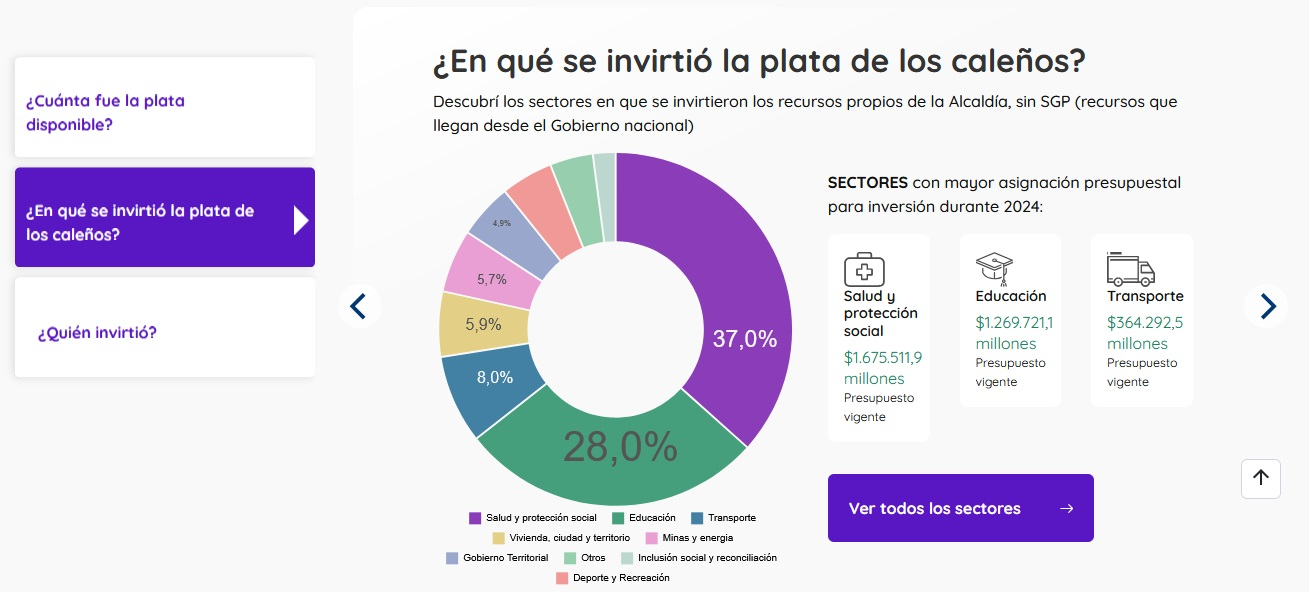
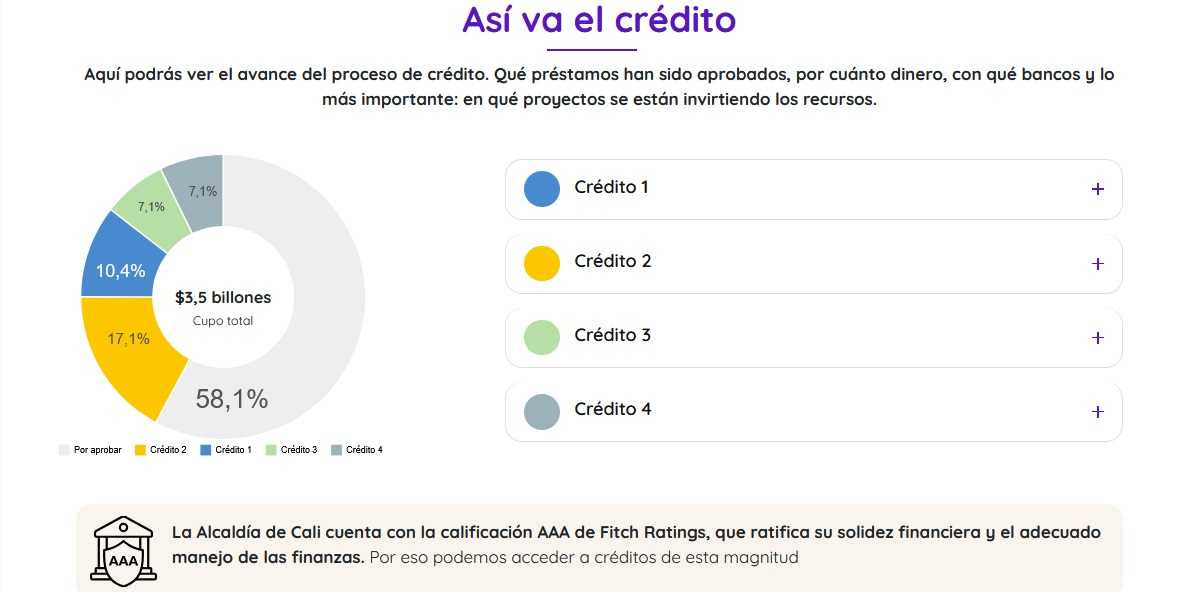
Actualización redme y código fuente
Actualización redme y código fuente

diff --git a/README.md b/README.md
@@ -60,9 +60,13 @@ También cualquier versión puede tener la sección de banner y anuncios, la cua
 
 ![carrusel](/MapaInversiones.Web/media/carrusel.jpg "carrusel")
 
+Dentro de la evolución de esta rama/versión se han ido haciendo ajustes, en la siguiente imagen se ve como se reemplazo el carrusel de banner anterior por uno con una sola imagen que lleva a una nueva seccion en donde se detalla todo lo referente a como se esta invirtiendo el dinero.
+
+![carrusel_nuevo](/MapaInversiones.Web/media/carrusel2.jpg "carrusel_nuevo")
+
 Uno de los elementos con los que el usuario puede interactuar, son las fichas resumen. 
 Las primeras que se ven en esta version muestran algunas preguntas con su respuesta de manera grafica, relacionadas con el dinero que estaba disponible, en que se invirtio y quien lo invirtio.
-En esta fichs se pueden incluir graficas con librerias como d3.js que permiten mostrar de manera interactiva la información. 
+En esta fichas se pueden incluir graficas con librerias como d3.js que permiten mostrar de manera interactiva la información. 
 
 ![en que se invirtio](/MapaInversiones.Web/media/fichapresenqueseinvirtio.jpg "en que se invirtio?")
 
@@ -89,6 +93,10 @@ La principal sección y una de las primeras características que se desarrollaro
 Una vez se ingrese al enlace, como se ve en la siguiente imagen, Mapa de Inversión presenta en la parte izquierda un filtro por diferentes características, estas sirven para ir reduciendo la cantidad de elementos mostrados en el mismo.
 
 ![mapa de inversión](/MapaInversiones.Web/media/mapa.jpg "mapa de inversión")
+
+Despues en la parte inferior, se encuentra un listado que va cambiando de acuerdo a los elementos que se muestren en el mapa y el filtro del mismo, este listado presenta el titulo del proyecto, el estao, el valor, y su id.
+
+![mapa de inversión proyectos](/MapaInversiones.Web/media/mapa2.jpg "mapa de inversión proyectos")
 
 Con la inclusion del WCM tambien se pueden crear secciones como la de noticias, las cuales se presenta como un listado y configuran desde el administrador de contenido, en estas secciones pueden ver las noticias más recientes, ver una imagen, el titulo y un pequeño resumen o subtitulo, según la version de MapaInversiones puede tener tambien la fecha publicación, usar el título de noticias para dirigirse a la sección completa de noticias, o usar un botón para ver todas las que han sido publicadas.
 
@@ -129,7 +137,7 @@ Para el manejo de datos se utiliza LINQ2DB, por lo cual, en caso de ser necesari
 
     2.1. Configuración (Debug o Release - Any CPU)
     
-    2.2. Target framework 3.1
+    2.2. Target .Net 6
     
     2.3. Seleccione el tipo de despliegue que quiere realizar. Existen dos opciones:
    	Framework-dependent deployment (El framework de .Net Core debe estar preinstalado).
@@ -139,7 +147,7 @@ Para el manejo de datos se utiliza LINQ2DB, por lo cual, en caso de ser necesari
 
 #### Instalación en IIS
 
-4. Instale o verifique que el framework de .Net Core 3.1 este instalado en el servidor que hospedará la aplicación (https://dotnet.microsoft.com/en-us/download/dotnet/3.1).
+4. Instale o verifique que el framework de .Net 6 este instalado en el servidor que hospedará la aplicación (https://dotnet.microsoft.com/en-us/download/dotnet).
 5. Como esta es una plataforma web el runtime requerido es ASP.NET Core Runtime 3.1.24
 6. Se recomienda instalar el Windows Hosting Bundle que contiene el runtime y el ASP.NET Core Module.
 7. Instale o verifique el componente SQLClrTypes de 64 bits (x64\SQLSysClrTypes.msi,https://www.microsoft.com/en-us/download/details.aspx?id=55992) 
